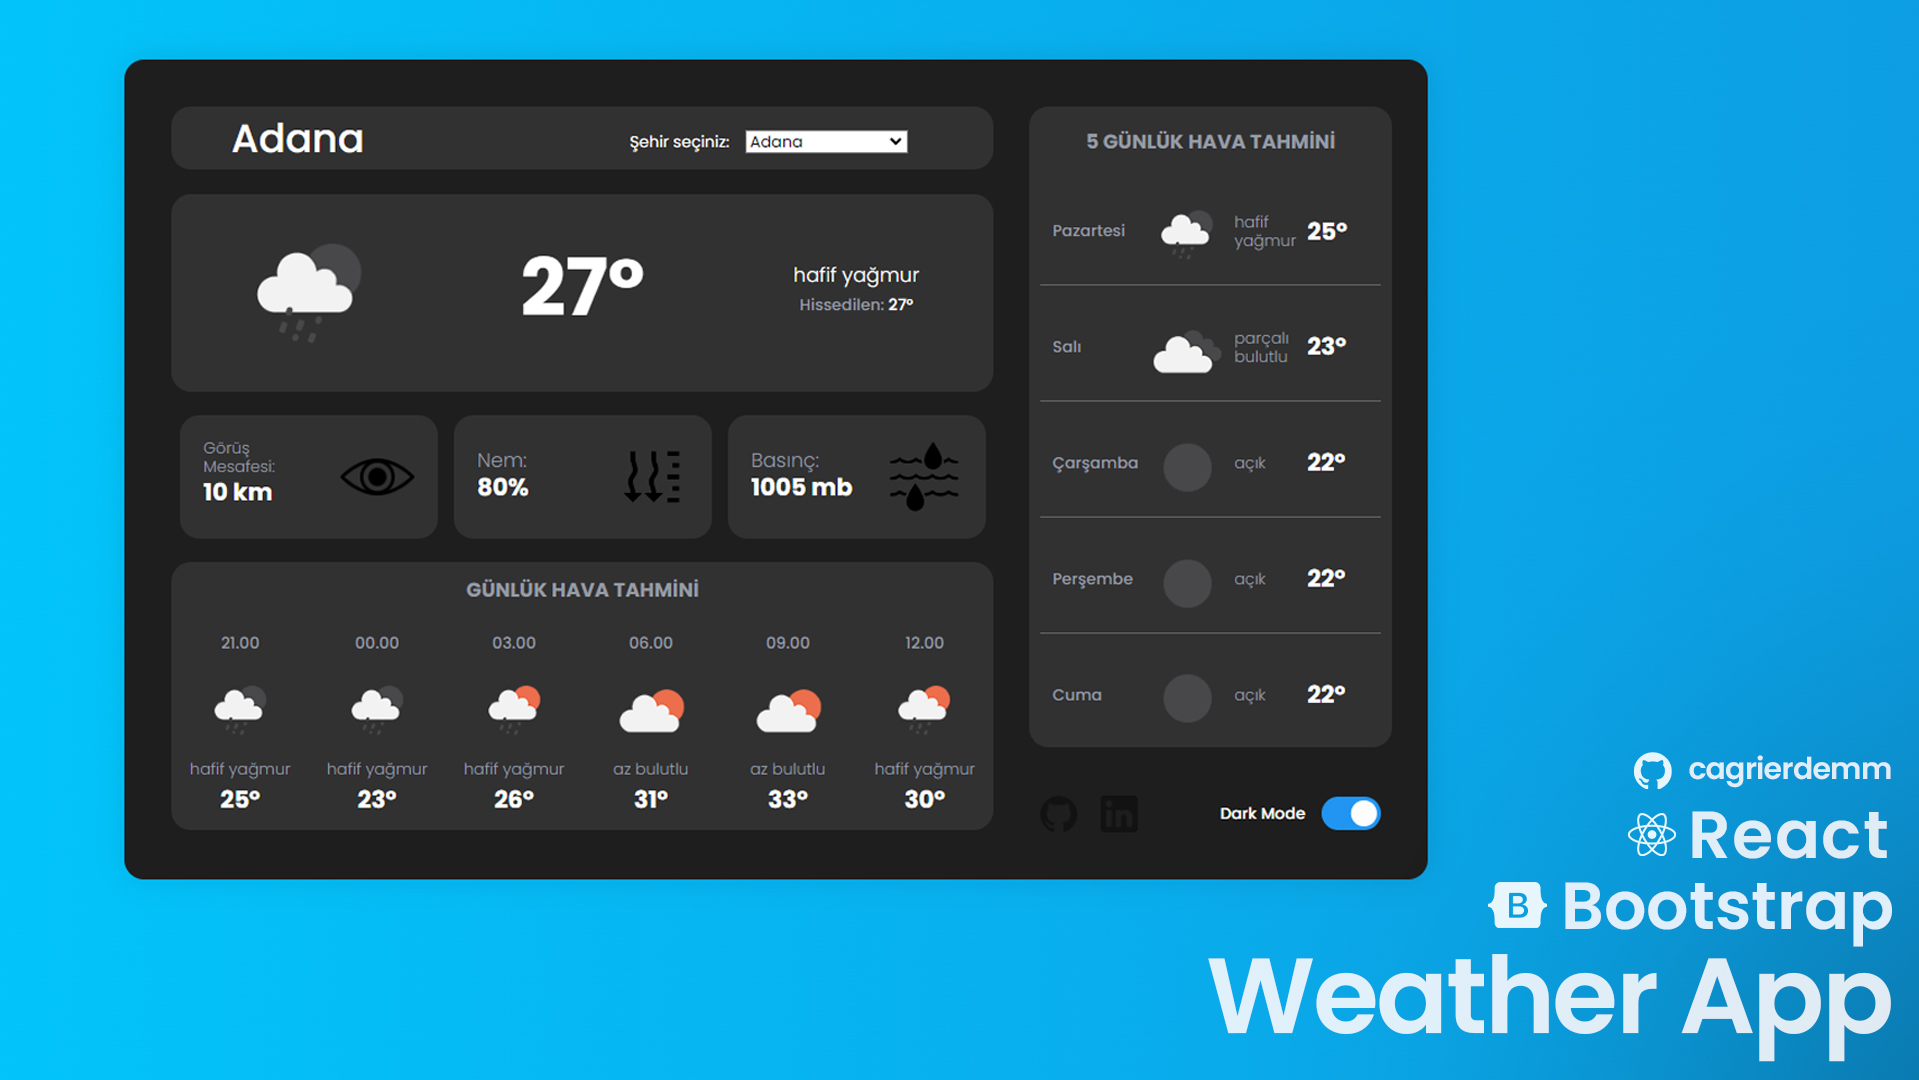
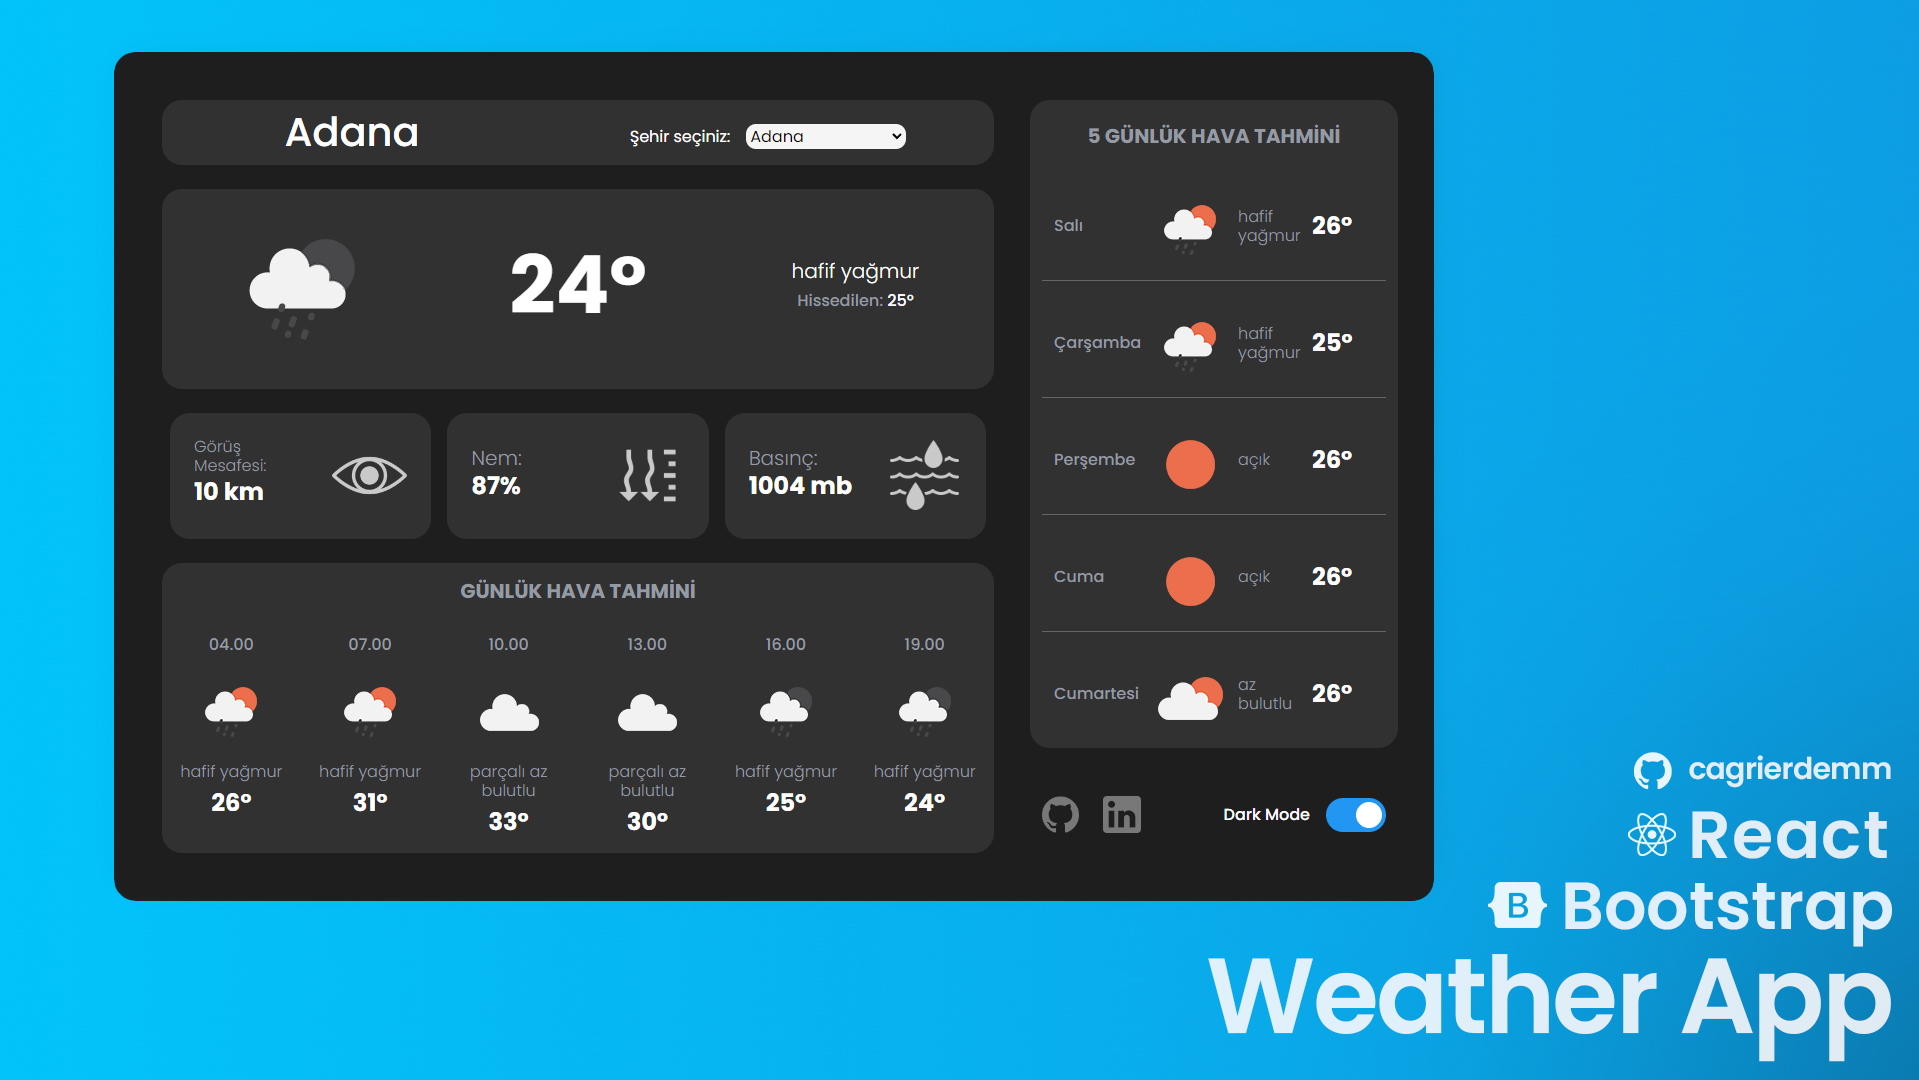
app.css and previews changed

diff --git a/src/components/Weather.js b/src/components/Weather.js
@@ -52,10 +52,10 @@ function Weather() {
             <div className='col-lg-8 col-md-12 p-5 pe-lg-0'>
               <div className={`${theme}Box`}>
                 <div className='row'>
-                  <div className='row col-lg-6 col-sm-6 d-flex align-items-center'>
-                    <h1 className='float-start ps-5 ms-4 pt-2'>{city}</h1>
+                  <div className='row col-lg-6 col-sm-12 d-flex align-items-center'>
+                    <h1 className='text-center pt-2'>{city}</h1>
                   </div>
-                  <div className='col-lg-6 col-sm-6 ms-4 ps-5 pt-4 pb-3 '>
+                  <div className='col-lg-6 col-sm-12 float-center text-center pt-4 pb-3 '>
                     <label className='me-3' htmlFor='sehir'>Şehir seçiniz:</label>
                     <select id='sehir' onChange={(e) => setCity(e.target.value) || localStorage.setItem("city", e.target.value)} value={localStorage.getItem("city") || "Adana"}>
                       {cities.map((x) => (
@@ -89,7 +89,7 @@ function Weather() {
                         <div className='row d-flex align-items-center'>
                           <h3 className='col-7 fw-bold fs-4'><span className='color1 fw-light fs-6'>Görüş Mesafesi: </span><br />{Math.round((temps.list[0].visibility) / 1000) + " km"}</h3>
                           <div className='col-5'>
-                            <img src={process.env.PUBLIC_URL + '/goz.png'} className='img-fluid' alt='eye icon' />
+                            <img src={process.env.PUBLIC_URL + '/goz.png'} className={`img-fluid ${theme}Logo2`} alt='eye icon' />
                           </div>
                         </div>
                       </div>
@@ -97,7 +97,7 @@ function Weather() {
                         <div className='row d-flex align-items-center'>
                           <h3 className='col-7 fw-bold fs-4 '><span className='color1 fw-light fs-5'>Nem: </span><br />{temps.list[0].main.humidity + "%"}</h3>
                           <div className='col-5'>
-                            <img src={process.env.PUBLIC_URL + '/nem.png'} className='img-fluid' alt='humidity icon' />
+                            <img src={process.env.PUBLIC_URL + '/nem.png'} className={`img-fluid ${theme}Logo2`} alt='humidity icon' />
                           </div>
                         </div>
                       </div>
@@ -105,7 +105,7 @@ function Weather() {
                         <div className='row d-flex align-items-center'>
                           <h3 className='col-7 fw-bold fs-4 '><span className='color1 fw-light fs-5'>Basınç: </span><br />{temps.list[0].main.pressure + " mb"}</h3>
                           <div className='col-5'>
-                            <img src={process.env.PUBLIC_URL + '/basinc.png'} className='img-fluid' alt='pressure icon' />
+                            <img src={process.env.PUBLIC_URL + '/basinc.png'} className={`img-fluid ${theme}Logo2`} alt='pressure icon' />
                           </div>
                         </div>
                       </div>
@@ -141,12 +141,12 @@ function Weather() {
                 ))}</div>
               <div className='row my-5 justify-content-center align-items-center'>
                 <div className='col-2' >
-                  <a href="https://www.github.com/cagrierdemm"><img src={process.env.PUBLIC_URL + '/github.png'} className='img-fluid logo' alt='github icon' /></a>
+                  <a href="https://www.github.com/cagrierdemm"><img src={process.env.PUBLIC_URL + '/github.png'} className={`img-fluid logo ${theme}Logo`} alt='github icon' /></a>
                 </div>
                 <div className='col-2'>
-                  <a href="https://www.linkedin.com/in/cagrierdemm/"><img src={process.env.PUBLIC_URL + '/linkedin.png'} className='img-fluid logo' alt='linkedin icon' /></a>
+                  <a href="https://www.linkedin.com/in/cagrierdemm/"><img src={process.env.PUBLIC_URL + '/linkedin.png'} className={`img-fluid logo ${theme}Logo`} alt='linkedin icon' /></a>
                 </div>
-                <div className='col-8  d-flex align-items-center justify-content-end'>
+                <div className='col-8 d-flex align-items-center justify-content-end'>
                   <h6 className=' me-3 ms-2 mt-2'>Dark Mode</h6>
                   <label className="switch">
                     <input type="checkbox" id="mode-switch" onClick={() => setTheme(theme === "light" ? "dark" : "light")} defaultChecked={(theme === "dark")} />

diff --git a/src/App.css b/src/App.css
@@ -40,14 +40,18 @@ span {
   display: inline-block;
 }
 
-.logo{
-  opacity: 0.4;  
+.lightLogo{
+  opacity: 0.25;  
 }
 
-.logo:hover{
-  transition: opacity 0.5s ease; 
+.lightLogo:hover{
+  transition: opacity 1s ease; 
   opacity: 1;
+}
 
+.darkLogo:hover{
+  transition: opacity 1s ease; 
+  opacity: 1;
 }
 
 .dark {
@@ -112,4 +116,23 @@ input:checked + .slider {
 
 input:checked + .slider:before {
   transform: translateX(26px);
+}
+
+.darkLogo {
+  opacity: 0.4;  
+  filter: invert(100%) sepia(100%) saturate(0%) hue-rotate(0deg);
+}
+
+.darkLogo2{
+  filter: invert(65%) sepia(100%) saturate(0%) hue-rotate(0deg);
+}
+
+.lightLogo2{
+  filter: invert(20%) sepia(100%) saturate(0%) hue-rotate(0deg);
+}
+
+select{
+  background-color: #F5F5F5;
+  border-radius: 10px;
+  border: none;
 }
